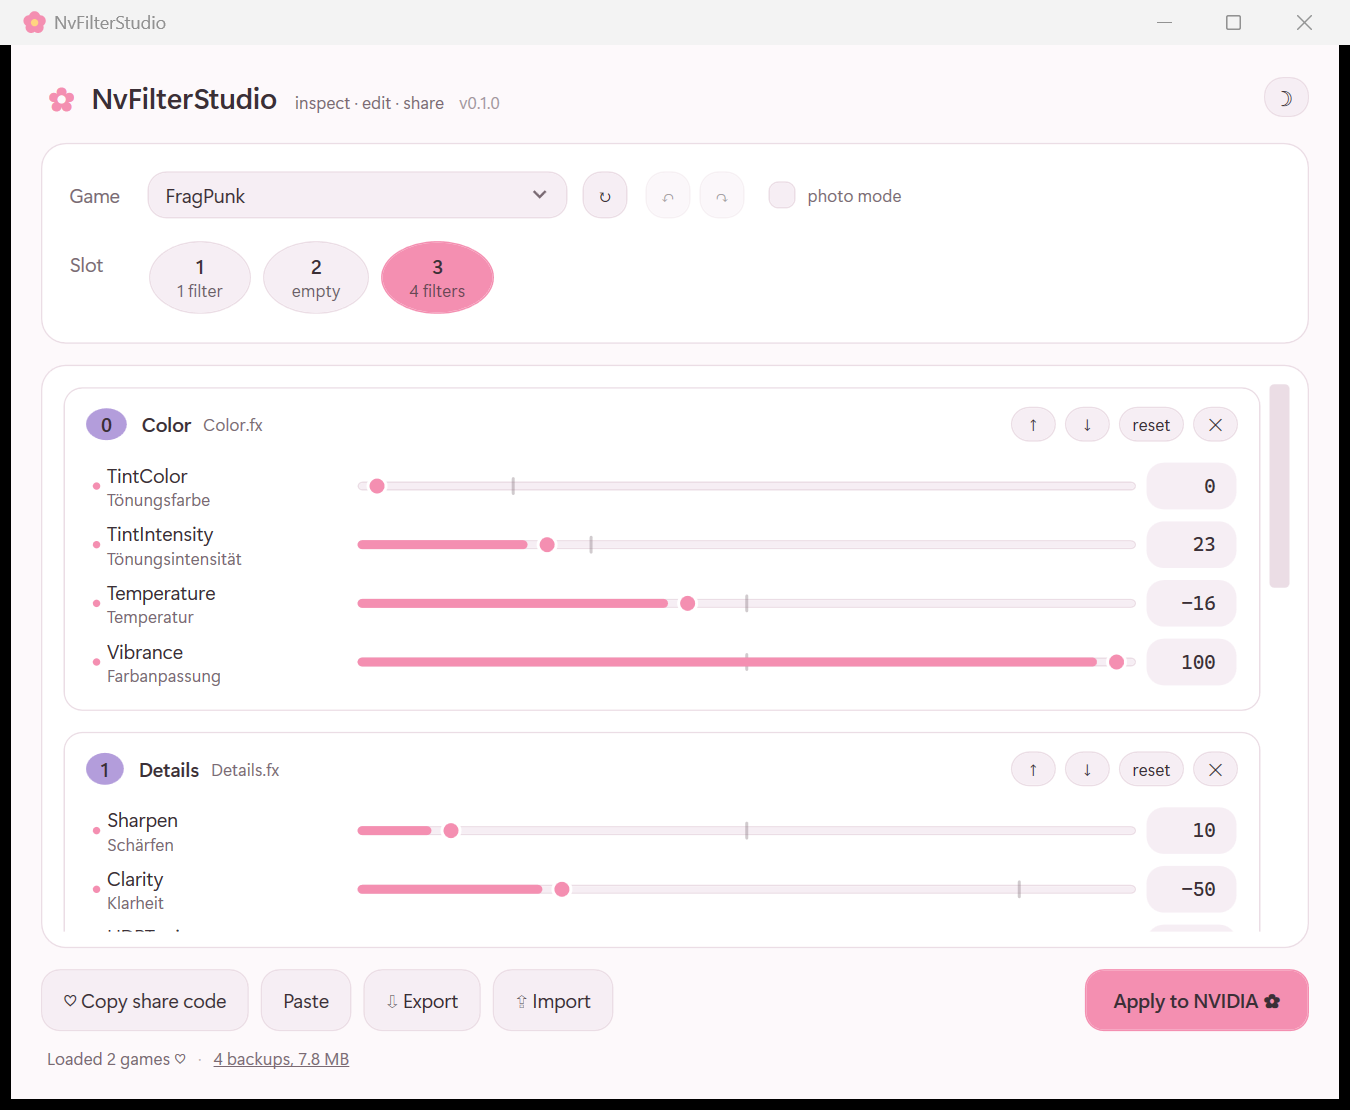
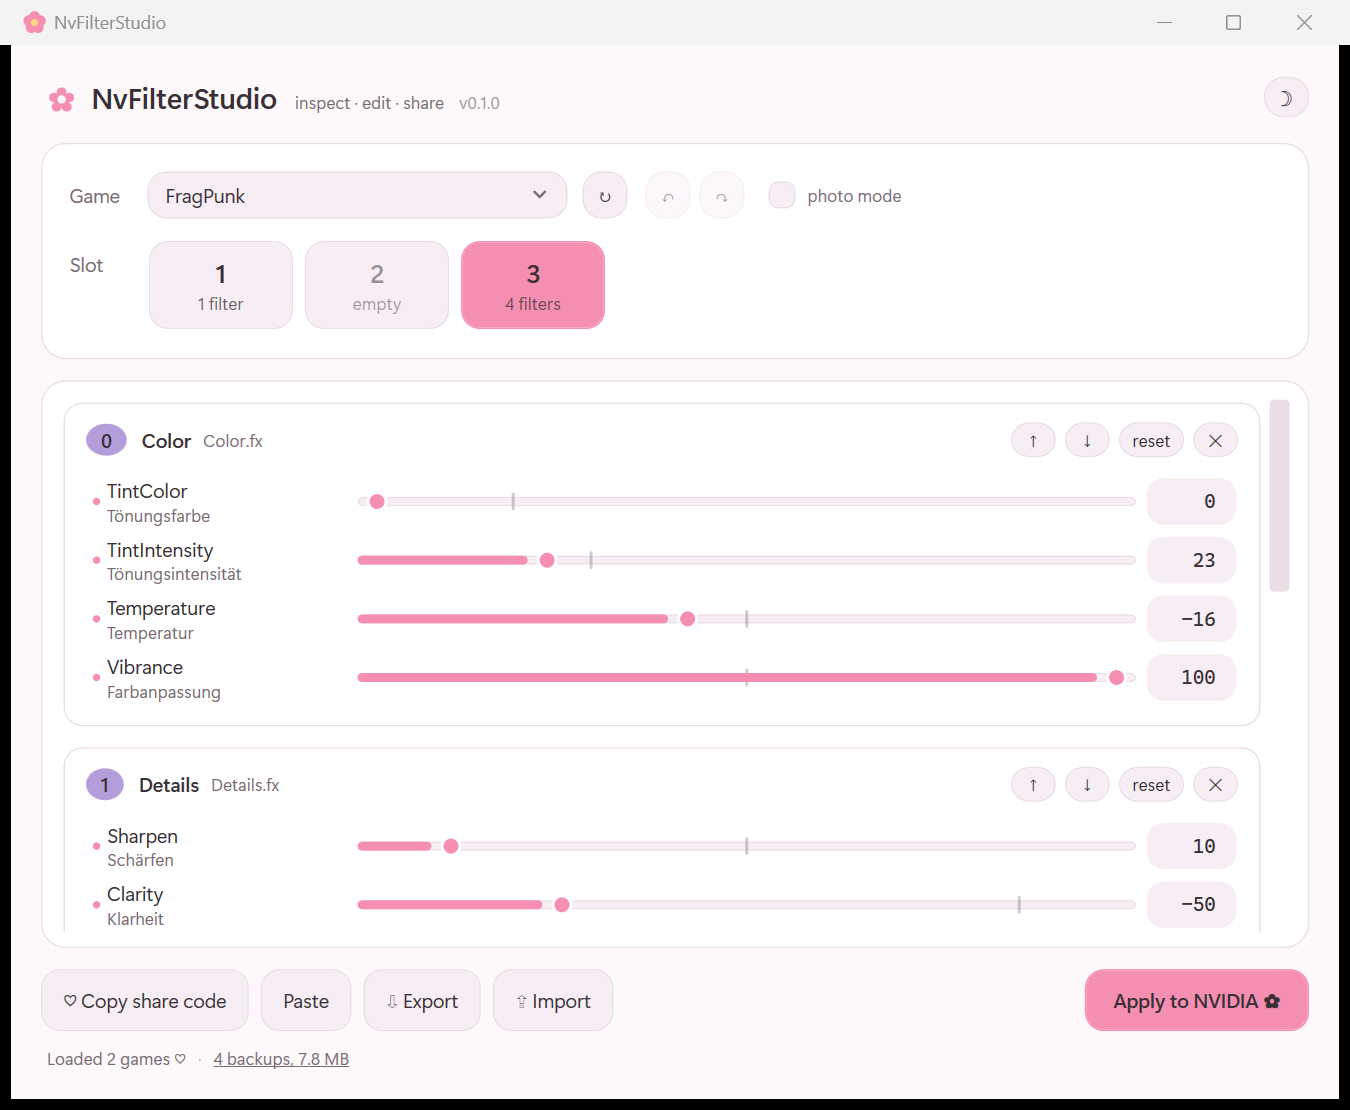
feat: slot selector reads as tiles, not pills
The window already has a consistent shape language, which is what made the
old chips look borrowed: radius 16 for containers, radius 12 for anything
interactive, and the pill radius used in exactly two places - the Badge
style and these. Badges are status labels nobody can click: the stack-order
number, "unnamed sliders", "unsaved changes". So the one control the whole
window is navigated with was dressed as a caption.

They are now tiles at the same radius as the buttons, because that is what
they behave like. A fixed minimum width so the row reads as a row instead
of three ragged lozenges, the slot number given the weight since it is the
thing being chosen, and empty slots dimmed so the eye lands on the slots
actually holding a look.

Also gains a keyboard focus ring. Selection colour cannot show where focus
is while arrowing between tiles, so there was no way to tell.

Moved out of MainWindow.xaml into named SlotTile and SlotTileContent
resources - 52 lines of inline template gone, and it sits with the rest of
the control styles now.

Claude-Session: https://claude.ai/code/session_01SopDhzvKsGeEEpriSiukSA

diff --git a/src/NvFilterStudio.App/Themes/Controls.xaml b/src/NvFilterStudio.App/Themes/Controls.xaml
@@ -419,6 +419,92 @@
         </Setter>
     </Style>
 
+    <!-- Slot selector.
+
+         These were pills, and the pill radius is exactly what made them look
+         borrowed from another application. The window has a consistent shape
+         language: radius 16 for containers, radius 12 for anything you interact
+         with, and the pill radius reserved for badges - the stack-order number,
+         "unnamed sliders", "unsaved changes" - which are status labels nobody
+         can click. The slot selector was the one interactive control wearing the
+         badge shape, so the most important navigation in the window was dressed
+         as a caption.
+
+         Now a tile at the same radius as the buttons, because that is what it
+         behaves like. Fixed minimum width so the row reads as a row rather than
+         three ragged lozenges, the slot number given the weight because it is
+         the thing being chosen, and empty slots dimmed so the eye lands on the
+         ones actually holding a look. -->
+    <Style x:Key="SlotTile" TargetType="ListBoxItem">
+        <Setter Property="Margin" Value="0,0,8,0" />
+        <Setter Property="Cursor" Value="Hand" />
+        <Setter Property="Template">
+            <Setter.Value>
+                <ControlTemplate TargetType="ListBoxItem">
+                    <Border x:Name="Tile"
+                            MinWidth="96"
+                            Background="{DynamicResource SunkenBrush}"
+                            CornerRadius="{StaticResource ControlRadius}"
+                            BorderBrush="{DynamicResource EdgeBrush}"
+                            BorderThickness="1"
+                            Padding="16,9"
+                            TextElement.Foreground="{DynamicResource InkBrush}">
+                        <ContentPresenter HorizontalAlignment="Center" />
+                    </Border>
+                    <ControlTemplate.Triggers>
+                        <Trigger Property="IsSelected" Value="True">
+                            <Setter TargetName="Tile" Property="Background"
+                                    Value="{DynamicResource BlushBrush}" />
+                            <Setter TargetName="Tile" Property="BorderBrush"
+                                    Value="{DynamicResource BlushBrush}" />
+                            <!-- This text sits on the pink accent, so it needs
+                                 the on-accent ink. Without it the summary line
+                                 all but vanishes in dark mode. -->
+                            <Setter TargetName="Tile" Property="TextElement.Foreground"
+                                    Value="{DynamicResource InkOnAccentBrush}" />
+                        </Trigger>
+                        <Trigger Property="IsMouseOver" Value="True">
+                            <Setter TargetName="Tile" Property="BorderBrush"
+                                    Value="{DynamicResource BlushBrush}" />
+                        </Trigger>
+                        <!-- Keyboard focus has to be visible on its own, because
+                             the selection colour cannot show where focus is while
+                             you arrow between tiles. Padding compensates so the
+                             tile does not jump as the border thickens. -->
+                        <Trigger Property="IsKeyboardFocusWithin" Value="True">
+                            <Setter TargetName="Tile" Property="BorderThickness" Value="2" />
+                            <Setter TargetName="Tile" Property="Padding" Value="15,8" />
+                            <Setter TargetName="Tile" Property="BorderBrush"
+                                    Value="{DynamicResource BlushBrush}" />
+                        </Trigger>
+                    </ControlTemplate.Triggers>
+                </ControlTemplate>
+            </Setter.Value>
+        </Setter>
+    </Style>
+
+    <!-- Contents of a slot tile. Foreground is deliberately never set here: the
+         tile supplies it and switches to on-accent ink when selected, and an
+         explicit Foreground would win over that and leave the label unreadable
+         on the pink. -->
+    <DataTemplate x:Key="SlotTileContent">
+        <StackPanel TextElement.FontFamily="{StaticResource UiFont}">
+            <TextBlock x:Name="Number"
+                       Text="{Binding Label}" HorizontalAlignment="Center"
+                       FontSize="17" FontWeight="SemiBold" />
+            <TextBlock x:Name="Summary"
+                       Text="{Binding Summary}" HorizontalAlignment="Center"
+                       FontSize="{StaticResource SmallSize}" Opacity="0.75"
+                       Margin="0,1,0,0" />
+        </StackPanel>
+        <DataTemplate.Triggers>
+            <DataTrigger Binding="{Binding IsEmpty}" Value="True">
+                <Setter TargetName="Number" Property="Opacity" Value="0.5" />
+                <Setter TargetName="Summary" Property="Opacity" Value="0.45" />
+            </DataTrigger>
+        </DataTemplate.Triggers>
+    </DataTemplate>
+
     <!-- Small pill label: the stack-order number, "unnamed sliders", "unsaved
          changes". These were three near-identical inline Borders; only the
          background ever differed, so that stays at the use site. -->

diff --git a/src/NvFilterStudio.App/MainWindow.xaml b/src/NvFilterStudio.App/MainWindow.xaml
@@ -110,61 +110,12 @@
                     <TextBlock Text="Slot" Style="{StaticResource BodyText}" VerticalAlignment="Top"
                                Width="52" Margin="0,8,0,0" Foreground="{DynamicResource InkSoftBrush}" />
                     <ListBox ItemsSource="{Binding Slots}" SelectedItem="{Binding SelectedSlot}"
-                             Background="Transparent" BorderThickness="0">
+                             Background="Transparent" BorderThickness="0"
+                             ItemContainerStyle="{StaticResource SlotTile}"
+                             ItemTemplate="{StaticResource SlotTileContent}">
                         <ListBox.ItemsPanel>
                             <ItemsPanelTemplate><WrapPanel /></ItemsPanelTemplate>
                         </ListBox.ItemsPanel>
-                        <ListBox.ItemContainerStyle>
-                            <Style TargetType="ListBoxItem">
-                                <Setter Property="Margin" Value="0,0,8,0" />
-                                <Setter Property="Cursor" Value="Hand" />
-                                <Setter Property="Template">
-                                    <Setter.Value>
-                                        <ControlTemplate TargetType="ListBoxItem">
-                                            <Border x:Name="Chip"
-                                                    Background="{DynamicResource SunkenBrush}"
-                                                    CornerRadius="{StaticResource PillRadius}"
-                                                    BorderBrush="{DynamicResource EdgeBrush}"
-                                                    BorderThickness="1" Padding="18,7"
-                                                    TextElement.Foreground="{DynamicResource InkBrush}">
-                                                <ContentPresenter />
-                                            </Border>
-                                            <ControlTemplate.Triggers>
-                                                <Trigger Property="IsSelected" Value="True">
-                                                    <Setter TargetName="Chip" Property="Background"
-                                                            Value="{DynamicResource BlushBrush}" />
-                                                    <Setter TargetName="Chip" Property="BorderBrush"
-                                                            Value="{DynamicResource BlushBrush}" />
-                                                    <!-- This text sits on the pink accent, so it needs
-                                                         the on-accent ink. Without it the summary line
-                                                         all but vanishes in dark mode. -->
-                                                    <Setter TargetName="Chip" Property="TextElement.Foreground"
-                                                            Value="{DynamicResource InkOnAccentBrush}" />
-                                                </Trigger>
-                                                <Trigger Property="IsMouseOver" Value="True">
-                                                    <Setter TargetName="Chip" Property="BorderBrush"
-                                                            Value="{DynamicResource BlushBrush}" />
-                                                </Trigger>
-                                            </ControlTemplate.Triggers>
-                                        </ControlTemplate>
-                                    </Setter.Value>
-                                </Setter>
-                            </Style>
-                        </ListBox.ItemContainerStyle>
-                        <ListBox.ItemTemplate>
-                            <DataTemplate DataType="{x:Type vm:SlotOption}">
-                                <!-- Foreground is deliberately not set here. The chip template
-                                     supplies it, switching to on-accent ink when selected, and an
-                                     explicit Foreground on the TextBlock would win over that and
-                                     leave the label unreadable on the pink. -->
-                                <StackPanel TextElement.FontFamily="{StaticResource UiFont}">
-                                    <TextBlock Text="{Binding Label}" HorizontalAlignment="Center"
-                                               FontSize="{StaticResource BodySize}" FontWeight="SemiBold" />
-                                    <TextBlock Text="{Binding Summary}" HorizontalAlignment="Center"
-                                               FontSize="{StaticResource SmallSize}" Opacity="0.75" />
-                                </StackPanel>
-                            </DataTemplate>
-                        </ListBox.ItemTemplate>
                     </ListBox>
                 </StackPanel>
             </StackPanel>

diff --git a/src/NvFilterStudio.App/ViewModels/MainViewModel.cs b/src/NvFilterStudio.App/ViewModels/MainViewModel.cs
@@ -805,10 +805,19 @@ public sealed class SlotOption(Slot slot)
     /// <summary>Short label for the chip.</summary>
     public string Label => Slot.Label;
 
-    /// <summary>Summary shown under the chip.</summary>
+    /// <summary>Summary shown under the label.</summary>
     public string Summary => Slot.FilterCount == 0
         ? "empty"
         : $"{Slot.FilterCount} filter{(Slot.FilterCount == 1 ? string.Empty : "s")}";
+
+    /// <summary>
+    /// Whether the slot holds nothing, so the tile can say so without words.
+    /// </summary>
+    /// <remarks>
+    /// Which slots are in use is the thing being scanned for, and reading three
+    /// summary lines to find out is slower than seeing it.
+    /// </remarks>
+    public bool IsEmpty => Slot.FilterCount == 0;
 
     /// <inheritdoc />
     public override string ToString() =>

diff --git a/CHANGELOG.md b/CHANGELOG.md
@@ -7,6 +7,10 @@ and [semantic versioning](https://semver.org/spec/v2.0.0.html).
 
 ### Added
 
+- The slot selector is tiles rather than pills. The window reserves the pill
+  shape for badges — status labels nobody can click — so the one control you
+  navigate with was wearing the shape of a caption. Now the same radius as the
+  buttons, a fixed width so the row lines up, and empty slots dimmed
 - Redrawn sliders: a solid thumb on a 6px track instead of a 20px hollow ring
   on a hairline, which read as floating above the track rather than gripping it
 - A tick on each slider marking NVIDIA's default, and a dot beside any control
